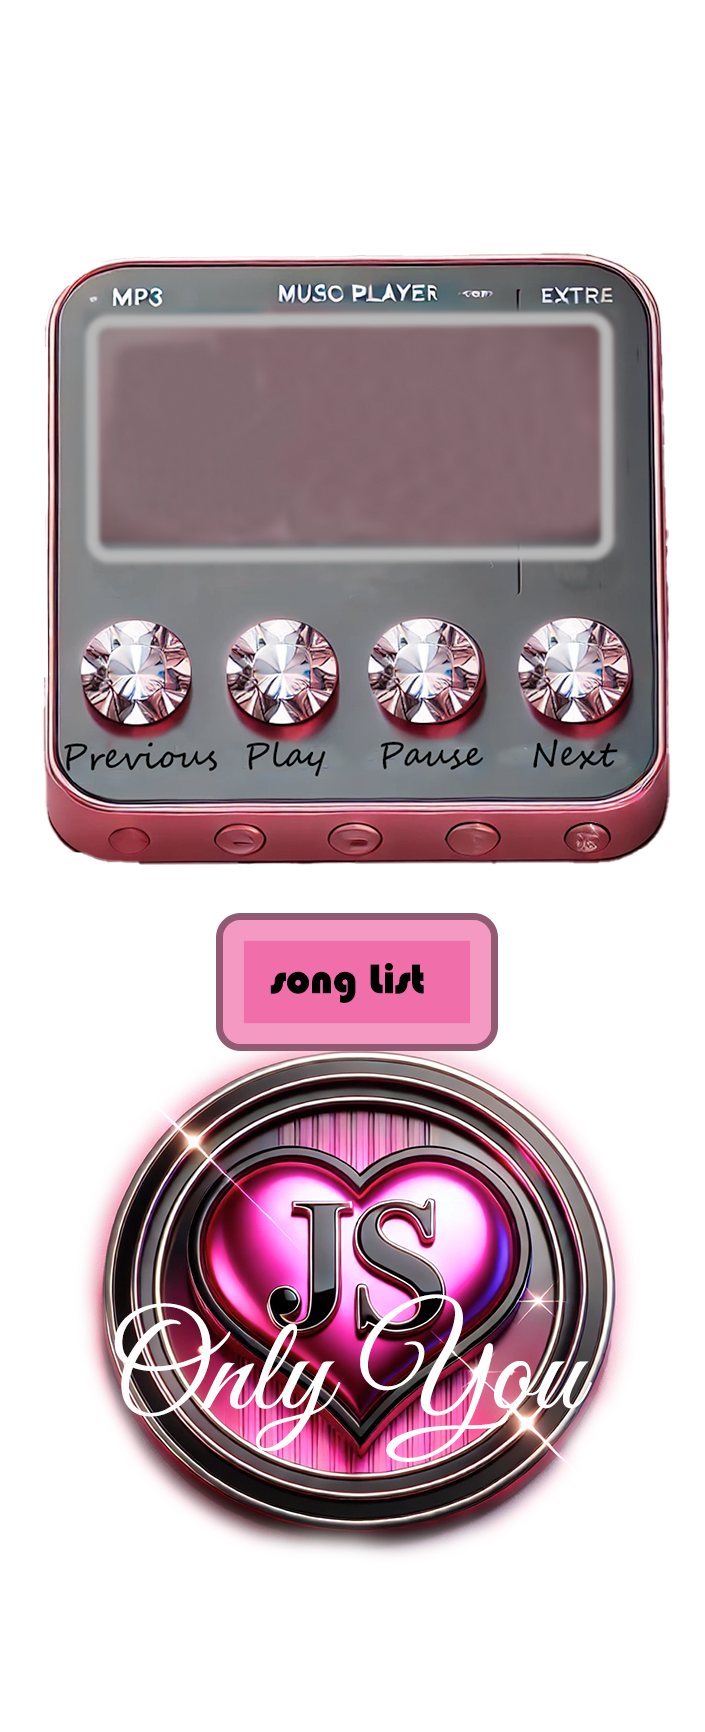
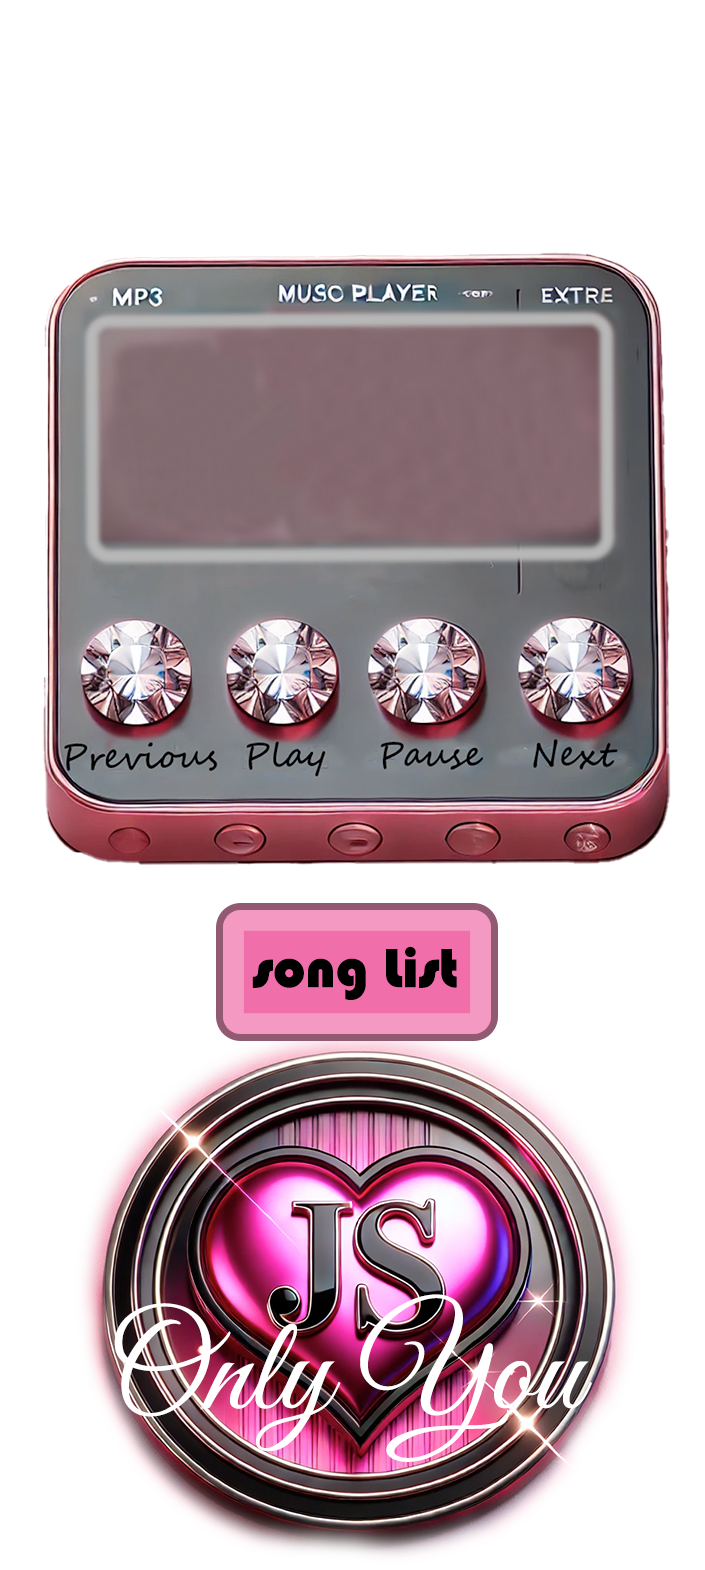
reined size

diff --git a/styles.css b/styles.css
@@ -4,13 +4,15 @@
 body {
   font-family: Arial, sans-serif;
   background-color: rgb(242, 135, 219);
-  margin: 0;
-  min-height: 100vh;
-  width: 100vw;
+  margin-top: 0;
+  margin-bottom: 0;
+  margin: 0 auto;
+  height: 90%;
+  width: 90%;
   display: flex;
   align-items: center;
   justify-content: center;
- border: 13px solid rgb(237, 181, 225);
+  border: 13px solid rgb(237, 181, 225);
 }
 .song-list-container {
   display: grid;
@@ -44,7 +46,7 @@ body {
 
 .lcd-display {
   position: absolute;
-  top: 19%;
+  top: 22%;
   left: 50%;
   transform: translateX(-50%);
   width: 70%;
@@ -71,7 +73,7 @@ body {
 
 #audioPlayer {
   position: absolute;
-  top: 45%;
+  top: 50%;
   left: 50.5%;
   transform: translateX(-50%);
   height: 5%;
